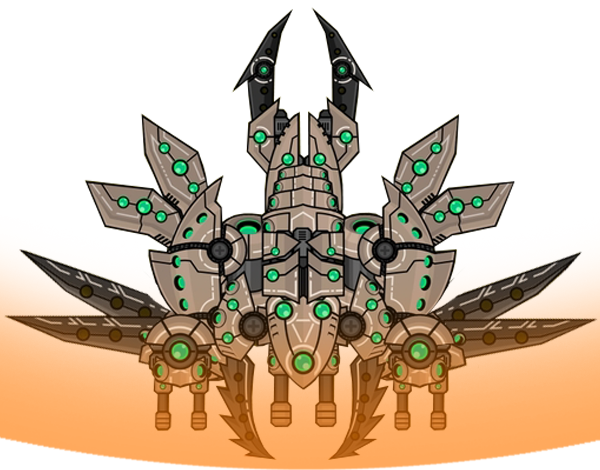
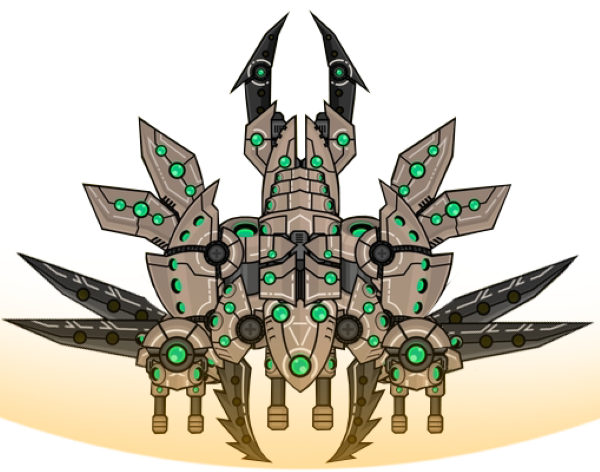
change mothership

diff --git a/Project/States/EasyState.cs b/Project/States/EasyState.cs
@@ -174,7 +174,7 @@ namespace AstroFight.States
             if (count_initial < 1)
             {
                 var texture = _content.Load<Texture2D>("Pictures/railgun");
-                var mother = _content.Load<Texture2D>("Pictures/MotherShipWithBabara");
+                var mother = _content.Load<Texture2D>("Pictures/MotherShipWithBabara2");
                 turn_count = 0;
                 count_combo = 0;
                 _player = new Player(texture)
@@ -183,7 +183,7 @@ namespace AstroFight.States
                 };
                 _celling = new Celling(mother)
                 {
-                    _position = new Vector2(50, -350)
+                    _position = new Vector2(0, -450)
                 };
                 _grid = new int[18, 12]
                 {
